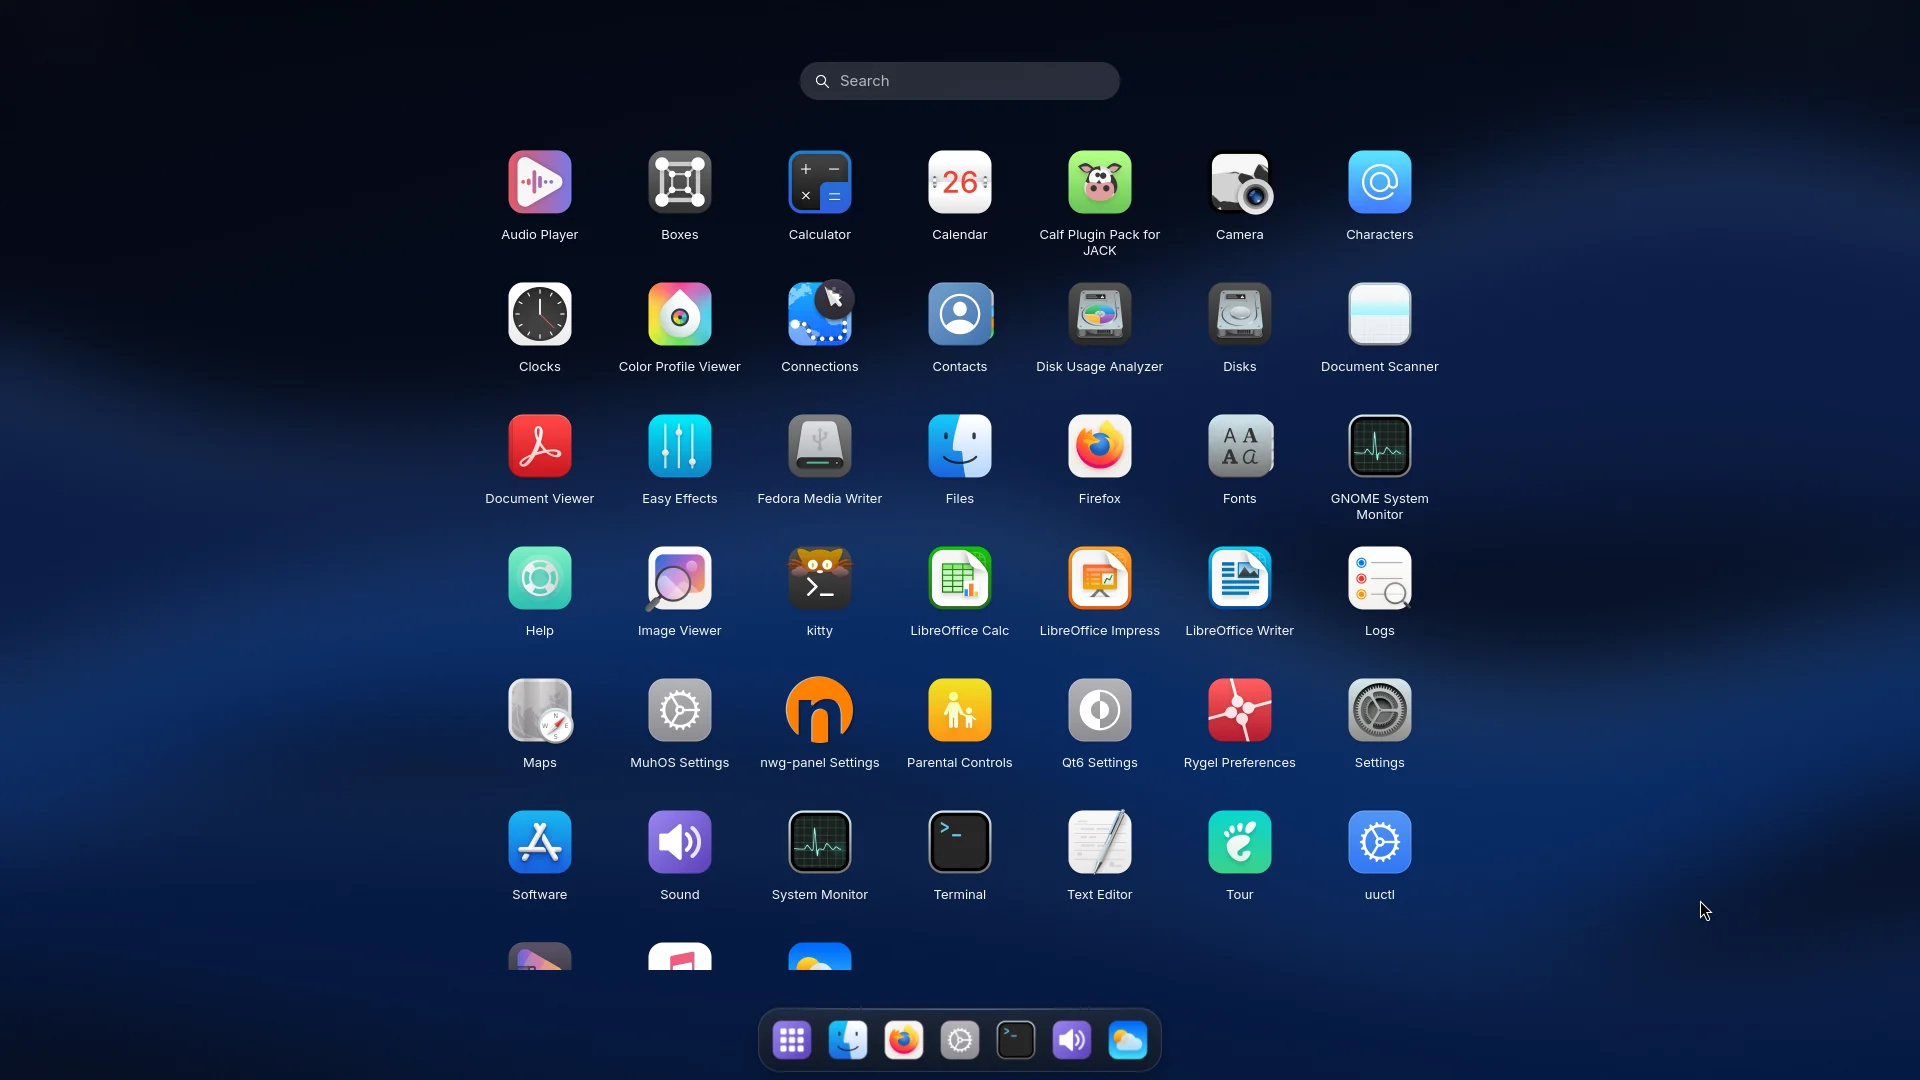
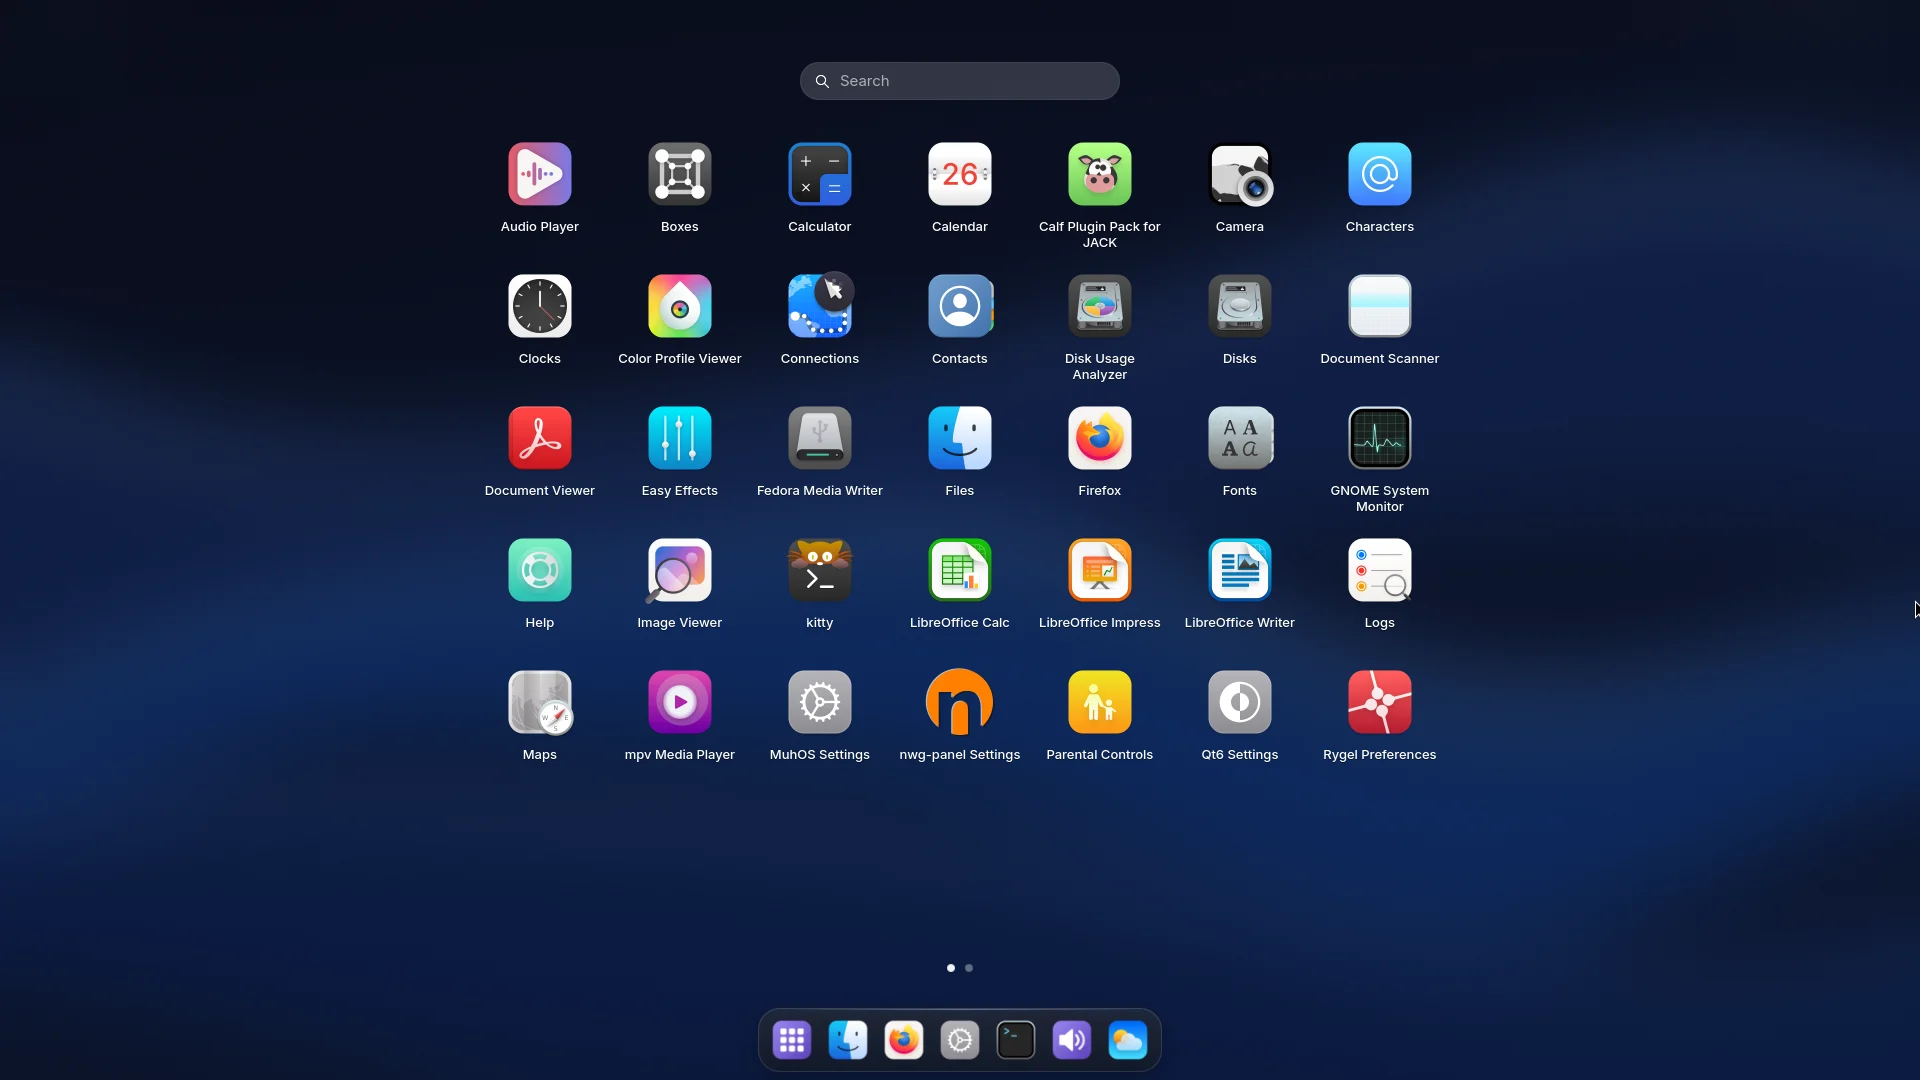
[brand] Screenshots: current music window, app grid pages, Settings
Retaken on MuhOS 0.1.0 in the Fedora Workstation VM: the music window
(was Serpantinum's old design from October), the app grid in pages (was
the old scrolling list) and Settings' Theme page with Choose picture and
Choose folder. The website copies these, so its app grid and Settings
images change too.

diff --git a/site/index.html b/site/index.html
@@ -18,6 +18,7 @@
       <ul>
         <li><a href="./" aria-current="page" class="hide-small">Overview</a></li>
         <li><a href="docs.html">Docs</a></li>
+        <li><a href="changelog.html" class="hide-small">Changelog</a></li>
         <li><a href="contribute.html">Contribute</a></li>
         <li><a class="cta" href="download.html">Download</a></li>
       </ul>
@@ -144,7 +145,7 @@
             <figcaption>Tiling, when you want it</figcaption>
           </figure>
           <figure>
-            <div class="shot"><img src="screenshots/settings.webp" width="1200" height="750" alt="Settings on the Theme page with accent colour choices" loading="lazy"></div>
+            <div class="shot"><img src="screenshots/settings.webp" width="1200" height="750" alt="Settings on the Theme page: Choose picture, Choose folder and accent colour choices" loading="lazy"></div>
             <figcaption>Settings: accent colours, themes, dock and more</figcaption>
           </figure>
           <figure>
@@ -152,7 +153,7 @@
             <figcaption>Notification centre</figcaption>
           </figure>
           <figure>
-            <div class="shot"><img src="screenshots/app-grid.webp" width="1920" height="1080" alt="App grid: every app as a large icon over the blurred desktop, with a search field and the dock" loading="lazy"></div>
+            <div class="shot"><img src="screenshots/app-grid.webp" width="1920" height="1080" alt="App grid: apps as large icons in pages, with page dots, a search field and the dock" loading="lazy"></div>
             <figcaption>Apps, from the dock</figcaption>
           </figure>
           <figure>
@@ -214,6 +215,7 @@
         <h4>Get it</h4>
         <ul>
           <li><a href="download.html">Download</a></li>
+          <li><a href="changelog.html">Changelog</a></li>
           <li><a href="https://github.com/Alex-Muhscience/MuhOS/releases">All releases</a></li>
           <li><a href="docs.html">Docs</a></li>
         </ul>

diff --git a/ASSETS.md b/ASSETS.md
@@ -57,7 +57,7 @@ Excluded from this inventory: nothing.
 | `src/assets/shaders/widgets/pacman.frag.qsb` | shader-binary | 2.6 KiB | generated | AGPL-3.0-or-later (compiled from .frag) |  | Rebuild with qsb during RPM build | `ac77565dcb38` |
 | `src/assets/shaders/widgets/widget_outline.frag.qsb` | shader-binary | 4.1 KiB | generated | AGPL-3.0-or-later (compiled from .frag) |  | Rebuild with qsb during RPM build | `1981dcdd25a1` |
 | `docs/assets/muhos-tile.svg` | image | 1014 B | ok | AGPL-3.0-or-later (MuhOS mark on a tile… |  |  | `0d3b9593507a` |
-| `docs/screenshots/app-grid.webp` | image | 78.1 KiB | ok | AGPL-3.0-or-later (screenshots of MuhOS… |  |  | `9ae03660384b` |
+| `docs/screenshots/app-grid.webp` | image | 69.4 KiB | ok | AGPL-3.0-or-later (screenshots of MuhOS… |  |  | `a142a702d16d` |
 | `docs/screenshots/calculator.webp` | image | 5.0 KiB | ok | AGPL-3.0-or-later (screenshots of MuhOS… |  |  | `60fe22dced10` |
 | `docs/screenshots/control-centre.webp` | image | 12.2 KiB | ok | AGPL-3.0-or-later (screenshots of MuhOS… |  |  | `208b51c044a0` |
 | `docs/screenshots/desktop-dark.webp` | image | 40.9 KiB | ok | AGPL-3.0-or-later (screenshots of MuhOS… |  |  | `9839aff0d7e9` |
@@ -66,11 +66,11 @@ Excluded from this inventory: nothing.
 | `docs/screenshots/launcher.webp` | image | 16.4 KiB | ok | AGPL-3.0-or-later (screenshots of MuhOS… |  |  | `ee30189f72d2` |
 | `docs/screenshots/lock-screen.webp` | image | 35.1 KiB | ok | AGPL-3.0-or-later (screenshots of MuhOS… |  |  | `abe711280f5b` |
 | `docs/screenshots/menu.webp` | image | 5.5 KiB | ok | AGPL-3.0-or-later (screenshots of MuhOS… |  |  | `942c0d91d10e` |
-| `docs/screenshots/music.webp` | image | 18.4 KiB | ok | AGPL-3.0-or-later (screenshots of MuhOS… |  |  | `e1f72891452b` |
+| `docs/screenshots/music.webp` | image | 21.3 KiB | ok | AGPL-3.0-or-later (screenshots of MuhOS… |  |  | `eb81039a1ea1` |
 | `docs/screenshots/notification-centre.webp` | image | 21.8 KiB | ok | AGPL-3.0-or-later (screenshots of MuhOS… |  |  | `00fe6096bae7` |
 | `docs/screenshots/notifications.webp` | image | 12.5 KiB | ok | AGPL-3.0-or-later (screenshots of MuhOS… |  |  | `afc718d0ab62` |
 | `docs/screenshots/osd.webp` | image | 1.5 KiB | ok | AGPL-3.0-or-later (screenshots of MuhOS… |  |  | `763ad9b517d5` |
-| `docs/screenshots/settings.webp` | image | 42.6 KiB | ok | AGPL-3.0-or-later (screenshots of MuhOS… |  |  | `2b93e87ce6b4` |
+| `docs/screenshots/settings.webp` | image | 46.5 KiB | ok | AGPL-3.0-or-later (screenshots of MuhOS… |  |  | `2029abcd4686` |
 | `docs/screenshots/tiling.webp` | image | 28.9 KiB | ok | AGPL-3.0-or-later (screenshots of MuhOS… |  |  | `c4935a4e25f5` |
 | `packaging/fedora/icons/muhos-apps.svg` | image | 1015 B | ok | AGPL-3.0-or-later (MuhOS original app i… |  |  | `69a8ab8a070d` |
 | `packaging/fedora/icons/muhos-sound.svg` | image | 829 B | ok | AGPL-3.0-or-later (MuhOS original app i… |  |  | `16dd88abf54a` |

diff --git a/README.md b/README.md
@@ -117,7 +117,7 @@ when you log in, and leaves GNOME exactly as it was.
 <table>
   <tr>
     <td width="50%"><img src="docs/screenshots/desktop-dark.webp" alt="Dark mode: Files and Text Editor in dark style over a dark blue wallpaper, with the glass dock"></td>
-    <td width="50%"><img src="docs/screenshots/app-grid.webp" alt="App grid: every installed app as a large icon over the blurred desktop, a search field on top and the dock below"></td>
+    <td width="50%"><img src="docs/screenshots/app-grid.webp" alt="App grid: installed apps as large icons on the first of two pages, with page dots, a search field on top and the dock below"></td>
   </tr>
   <tr>
     <td align="center"><b>Dark mode.</b> Apps follow it too.</td>
@@ -141,7 +141,7 @@ when you log in, and leaves GNOME exactly as it was.
   </tr>
   <tr>
     <td><img src="docs/screenshots/lock-screen.webp" alt="Lock screen: blurred blue wallpaper, the date and a large clock, notification titles, the user's picture and a glass password field"></td>
-    <td><img src="docs/screenshots/settings.webp" alt="MuhOS Settings on the Theme page: coloured section icons from Welcome to About, and the accent colour choices"></td>
+    <td><img src="docs/screenshots/settings.webp" alt="MuhOS Settings on the Theme page: Browse wallpapers, Choose picture and Choose folder buttons, and the accent colour choices"></td>
   </tr>
   <tr>
     <td align="center"><b>Lock screen.</b> Notification titles only, never their contents.</td>
@@ -149,7 +149,7 @@ when you log in, and leaves GNOME exactly as it was.
   </tr>
   <tr>
     <td><img src="docs/screenshots/tiling.webp" alt="Tiled windows: Text Editor and Files side by side under the transparent menu bar"></td>
-    <td><img src="docs/screenshots/music.webp" alt="Music popup with cover, playback controls and a ten-band equalizer with presets"></td>
+    <td><img src="docs/screenshots/music.webp" alt="Music window playing Northern Lights: cover art, playback controls and a ten-band equaliser with presets"></td>
   </tr>
   <tr>
     <td align="center"><b>Tiling,</b> when you want it.</td>
